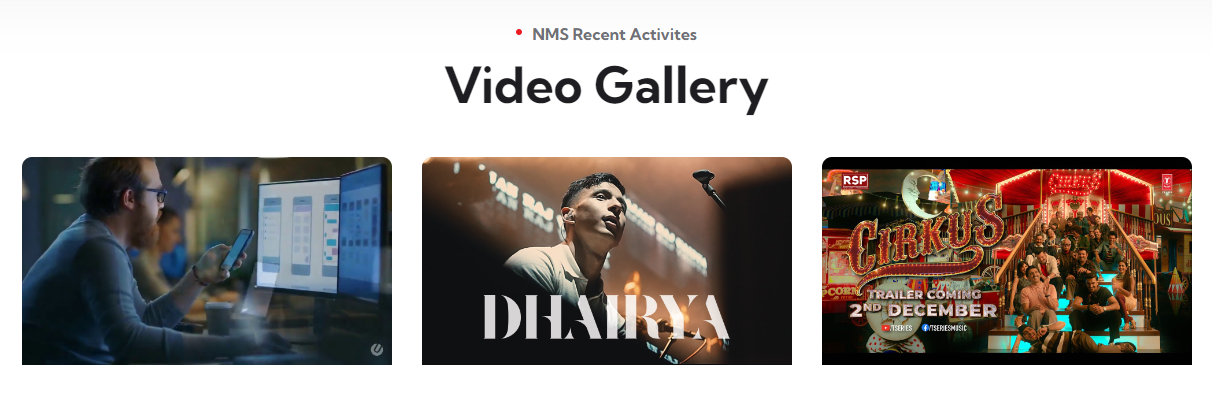
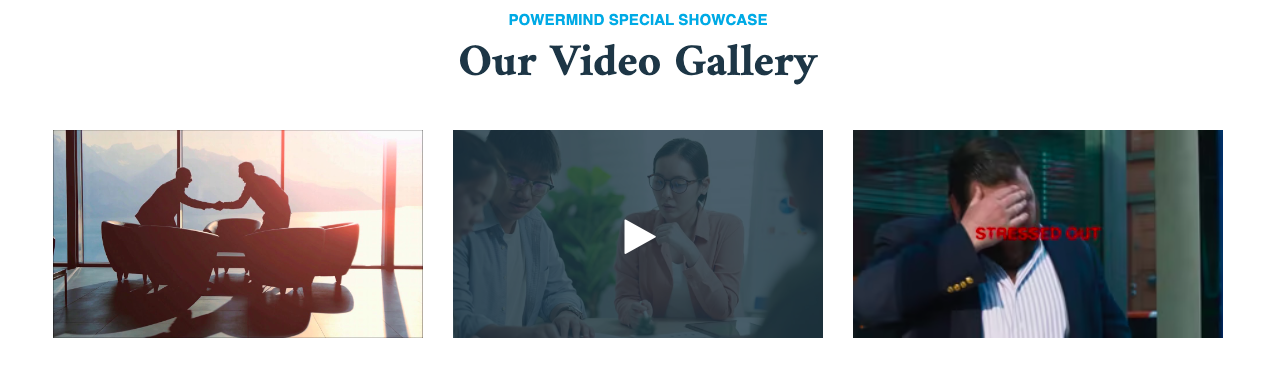
video section added

diff --git a/public/assets/frontend/css/main.css b/public/assets/frontend/css/main.css
@@ -3141,7 +3141,7 @@ ul.pagination .page-item .page-link{
 }
 .ck-texts .image{
     text-align: center;
-    margin: 0.9em auto;
+    margin: 0.5em auto;
     min-width: 50px;
 }
 .ck-texts figcaption{
@@ -3163,4 +3163,35 @@ ul.pagination .page-item .page-link{
 
 .justified{
     text-align: justify;
+}
+
+.ck-texts ul, .ck-texts ol{
+    list-style: none;
+    padding: 10px 0;
+    margin: 0;
+    font-size: 15px;
+}
+.ck-texts ul li, .ck-texts ol li{
+    position: relative;
+    padding-bottom: 8px;
+}
+.ck-texts ul li:before{
+    content: "\f0a9";
+    padding-right: 5px;
+    color: #27aae1;
+    display: inline-block;
+    font: normal normal normal 14px/1 FontAwesome;
+    font-size: inherit;
+    text-rendering: auto;
+    -webkit-font-smoothing: antialiased;
+}
+.ck-texts ol li:before{
+    content: "\f178";
+    padding-right: 5px;
+    color: #27aae1;
+    display: inline-block;
+    font: normal normal normal 14px/1 FontAwesome;
+    font-size: inherit;
+    text-rendering: auto;
+    -webkit-font-smoothing: antialiased;
 }

diff --git a/resources/views/frontend/pages/dynamic_page.blade.php b/resources/views/frontend/pages/dynamic_page.blade.php
@@ -27,6 +27,77 @@
     .ttm-fid.inside.ttm-fid-with-icon.style1{
      margin-left: 0px !important;
     }
+    .featured-icon-box.style9{
+        box-shadow: 0 0 12px 0 rgb(43 52 59 / 30%)!important;
+    }
+    .ttm-pf-view-left-image .ttm-pf-single-content-area h2 {
+        text-align: center;
+        font-size: 36px;
+        line-height: 46px;
+        margin-bottom: 20px;
+    }
+
+    .ck-texts blockquote {
+        display: block;
+        padding: 55px 50px 55px 30px;
+        position: relative;
+        color: #223645;
+        margin: 30px 0 30px 0;
+        font-weight: 600;
+        background-color: #ebf5f5;
+        font-size: 22px;
+        line-height: 36px;
+        min-height: 100px;
+        border-radius: 10px;
+        font-style: italic;
+        border: none;
+    }
+    .ck-texts blockquote:before {
+        display: block;
+        height: 60%;
+        content: '';
+        position: absolute;
+        left: 0;
+        width: 4px;
+        top: 40px;
+        background-color: #000;
+    }
+
+    .ck-texts blockquote:after {
+        content: "\e67f";
+        font-family: "themify";
+        font-size: 110px;
+        line-height: 110px;
+        font-weight: 400;
+        position: absolute;
+        left: 40px;
+        letter-spacing: 0;
+        top: 30px;
+        opacity: 0.06;
+        font-style: normal;
+        display: block;
+    }
+    .ttm-icon {
+        margin-bottom: 2px;
+    }
+
+    .featured-imagebox-portfolio.style2 .ttm-media-link {
+        display: flex;
+        position: relative;
+        padding-top: 5px;
+        padding-bottom: 4px;
+    }
+    .featured-imagebox-portfolio.style2 .ttm-media-link a{
+        border: none;
+        font-size: 40px;
+    }
+    .featured-imagebox-portfolio.style2 .ttm-media-link:after {
+        height: 0px;
+    }
+    .featured-imagebox-portfolio.style2 .ttm-media-link a:hover{
+        border-color: transparent;
+        background-color: transparent;
+    }
 </style>
 
 @endsection
@@ -211,63 +282,71 @@
 
                 @if($value == "video_section")
 
-                <section class="blog-one blog-grid">
-                    <div class="container">
-                          <div class="section-title text-center">
-                              <span class="section-title__tagline">NMS Recent Activites</span>
-                              <h2 class="section-title__title">
-                                  <span>Video</span>
-                                  <span class="text-last">Gallery</span>
-                              </h2>
-                          </div>
 
-                        <div class="row">
-                          @foreach(@$video_section_elements as $video_element)
-                                @if(@$video_element->heading == "youtube")
-                                    @if(str_contains(@$video_element->description,'youtube'))
-                                        <?php
-                                            $thumbnail=get_youtube_thumbnail($video_element->description);
-                                        ?>
-                                    @else
-                                        <?php
-                                        $thumbnail=get_vimeo_thumbnail($video_element->description);
-                                        ?>
-                                    @endif
-                                @else
-                                    @if(str_contains(@$video_element->description,'youtube'))
-                                        <?php
-                                            $thumbnail=get_youtube_thumbnail($video_element->description);
-                                        ?>
-                                    @else
-                                        <?php
-                                        $thumbnail=get_vimeo_thumbnail($video_element->description);
-                                        ?>
-                                    @endif
-                                @endif
-
-                              <div class="col-xl-4 col-lg-6 col-md-6">
-                                <!--Blog One Single-->
-                                <div class="blog-one__single wow fadeInUp" data-wow-delay="100ms">
-                                    <div class="blog-one__img-box">
-                                        <div class="blog-one__img">
-                                            <img src="{{@$thumbnail}}" alt="">
-                                            <a href="{{@$video_element->description}}" class="video-popup">
-                                              <div class="video-one__video-icon">
-                                                  <span class="icon-play-button"></span>
-                                                  <i class="ripple"></i>
-                                              </div>
-                                            </a>
-                                        </div>
-
+                    <!--grid-section-->
+                        <section class="ttm-row grid-section clearfix">
+                            <div class="container">
+                                <!-- row -->
+                                <div class="section-title title-style-center_text">
+                                    <div class="title-header">
+                                        <h3>Powermind special showcase</h3>
+                                        <h2 class="title">Our Video Gallery</h2>
                                     </div>
-
                                 </div>
-                            </div>
+                                <div class="row row-equal-height">
+                                    @foreach(@$video_section_elements as $video_element)
+                                        @if(@$video_element->heading == "youtube")
+                                            @if(str_contains(@$video_element->description,'youtube'))
+                                                <?php
+                                                $thumbnail=get_youtube_thumbnail($video_element->description);
+                                                ?>
+                                            @else
+                                                <?php
+                                                $thumbnail=get_vimeo_thumbnail($video_element->description);
+                                                ?>
+                                            @endif
+                                        @else
+                                            @if(str_contains(@$video_element->description,'youtube'))
+                                                <?php
+                                                $thumbnail=get_youtube_thumbnail($video_element->description);
+                                                ?>
+                                            @else
+                                                <?php
+                                                $thumbnail=get_vimeo_thumbnail($video_element->description);
+                                                ?>
+                                            @endif
+                                        @endif
+                                        <div class="col-lg-4 col-md-6 col-sm-12">
+                                        <!--featured-icon-box-->
+                                        <div class="featured-imagebox featured-imagebox-portfolio style2">
+                                            <!-- ttm-box-view-overlay -->
+                                            <div class="ttm-box-view-overlay">
+                                                <!-- featured-thumbnail -->
+                                                <div class="featured-thumbnail">
+                                                    <a href="#" tabindex="0"><img class="img-fluid" src="{{@$thumbnail}}" style="    height: 208px;" alt="image"></a>
+                                                </div><!-- featured-thumbnail end-->
+                                                <div class="featured-content">
 
-                          @endforeach
-                        </div>
-                     </div>
-                 </section>
+                                                    <div class="featured-iconbox ttm-media-link">
+                                                        <a href="{{@$video_element->description}}" target="_self" class="ttm_prettyphoto ttm_image">
+                                                    <span class="ttm-icon ttm-icon_element-color-white ttm-textcolor-white  ttm-icon_element-style-rounded">
+                                                         <i class="fa fa-play"></i>
+                                                    </span>
+                                                        </a>
+                                                    </div>
+                                                </div>
+                                            </div><!-- ttm-box-view-overlay end-->
+                                        </div><!-- featured-icon-box end-->
+                                    </div>
+                                    @endforeach
+                                </div><!-- row end -->
+                            </div>
+                        </section>
+                        <!--grid-section end-->
+
+
+
+
 
                 @endif
 
@@ -526,38 +605,33 @@
                 @endif
 
                 @if($value == "simple_header_and_description")
-                  <!--- Simple Header Description--->
-                  <section class="portfolio-fullwidth">
-                    <div class="container">
-                      <div class="row">
-                        <div class="col-xl-12">
-                          <div class="portfolio-fullwidth__img-box">
-                          </div>
-                          <div class="portfolio-fullwidth__content">
-                          @if(@$header_descp_elements->heading)
+                        <section class="ttm-row clearfix" style="    padding: 50px 0;">
+                            <div class="container">
+                                <!-- row -->
+                                <div class="row">
+                                    <div class="col-lg-12">
+                                        <div class="ttm-pf-single-content-wrapper ttm-pf-view-left-image">
+                                            <div class="ttm-pf-single-content-wrapper-innerbox">
 
-                            <h2 class="portfolio-fullwidth__title"
-                            style="margin: auto;
-                              width: 70%;
-                              text-align: center;
-                              margin-bottom: 40px;
-                              text-transform: uppercase;">
-
-                                <span class="text-red"><?php
-                                    $split = explode(" ", ucwords(@$header_descp_elements->heading));?> {{preg_replace('/\W\w+\s*(\W*)$/', '$1', ucwords(@$header_descp_elements->heading))."\n"}}</span>
-                                <span class="text-last">{{$split[count($split)-1]}}</span>
-
-                            </h2>
-                              @endif
-
-                              <div class="portfolio-fullwidth__text-1 winrecruit" style="text-align: justify;">
-                                {!! @$header_descp_elements->description !!}
-                              </div>
-                          </div>
-                        </div>
-                      </div>
-                    </div>
-                  </section>
+                                                <div class="ttm-pf-single-content-area">
+                                                    <div class="row">
+                                                        <div class="col-lg-12">
+                                                            @if(@$header_descp_elements->heading !== null)
+                                                                <h2>{{@$header_descp_elements->heading}}</h2>
+                                                            @endif
+                                                             <div class="ck-texts">
+                                                                {!! @$header_descp_elements->description !!}
+                                                            </div>
+                                                        </div>
+                                                    </div>
+                                                </div>
+                                                <!-- row end-->
+                                            </div>
+                                        </div>
+                                    </div>
+                                </div>
+                            </div>
+                        </section>
                 @endif
 
                 @if($value == "map_and_description")
@@ -935,6 +1009,7 @@
 
 
              @endif
+
 
 
         </div>

diff --git a/resources/views/backend/pages/section_elements/create.blade.php b/resources/views/backend/pages/section_elements/create.blade.php
@@ -1034,9 +1034,9 @@
                                                          <label>Description <span class="text-muted text-danger">*</span></label>
                                                          <input type="hidden" class="form-control" value="{{$key}}" name="page_section_id" required>
                                                          <input type="hidden" class="form-control" value="{{$value}}" name="section_name" required>
-                                                         <textarea class="form-control" rows="6" name="description" defaultid="header_descp_editor" id="task-textarea" required>{{@$header_descp_elements->description}}</textarea>
+                                                         <textarea class="form-control" rows="6" name="description" id="task-textarea" required>{{@$header_descp_elements->description}}</textarea>
                                                          <div class="invalid-feedback">
-                                                             Please write the short description for section.
+                                                             Please write the description for section.
                                                          </div>
                                                      </div>
                                                  </div>
@@ -1565,7 +1565,14 @@
 
 @section('js')
 {{--    <!-- <script src="{{asset('assets/backend/plugins/ckeditor/ckeditor.js')}}"></script> -->--}}
-{{--    @include('backend.ckeditor')--}}
+    <script type="text/javascript">
+        var section_list = new Array();
+        <?php foreach($sections as $key => $val){ ?>
+        section_list.push('<?php echo $val; ?>');
+            <?php } ?>
+    </script>
+
+    @include('backend.ckeditor')
     <script src="{{asset('assets/backend/libs/@ckeditor/ckeditor5-build-classic/build/ckeditor.js')}}"></script>
     <script src="{{asset('assets/backend/plugins/dropzone/dropzone.js')}}"></script>
     <script src="{{asset('assets/backend/plugins/dropzone/dropzone.config.js')}}"></script>
@@ -1582,12 +1589,6 @@
     </script>
 
     <script type="text/javascript">
-        var section_list = new Array();
-        <?php foreach($sections as $key => $val){ ?>
-        section_list.push('<?php echo $val; ?>');
-        <?php } ?>
-
-
         var loadbasicFile = function(id1,id2,event) {
             var image       = document.getElementById(id1);
             var replacement = document.getElementById(id2);
@@ -1657,7 +1658,7 @@
             });
         }
 
-        function createEditor ( elementId ) {
+        function createEditor2 ( elementId ) {
             return ClassicEditor
                 .create( document.querySelector( '#' + elementId ), {
                     toolbar : {
@@ -1741,14 +1742,14 @@
 
 
         $(document).ready(function () {
-            if(section_list.includes("simple_header_and_description")){
-                createEditor('task-textarea');
-            }
             if(section_list.includes("directors_message")){
-                createEditor('director_editor');
+                createEditor2('director_editor');
             }
             if(section_list.includes("basic_section")){
-                createEditor('basic_editor');
+                createEditor2('basic_editor');
+            }
+            if(section_list.includes("simple_header_and_description")){
+                createEditor('task-textarea');
             }
 
             {{--if(section_list.includes("accordion_section_2")){--}}
